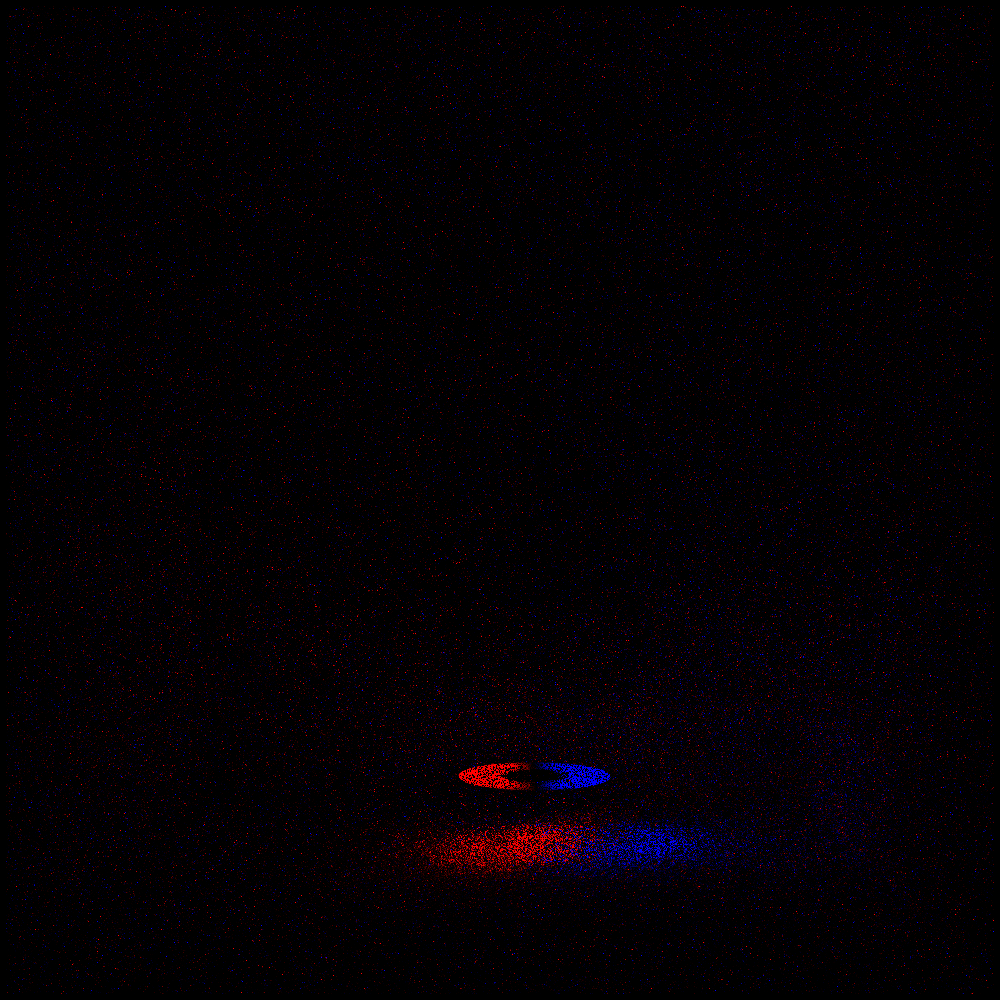
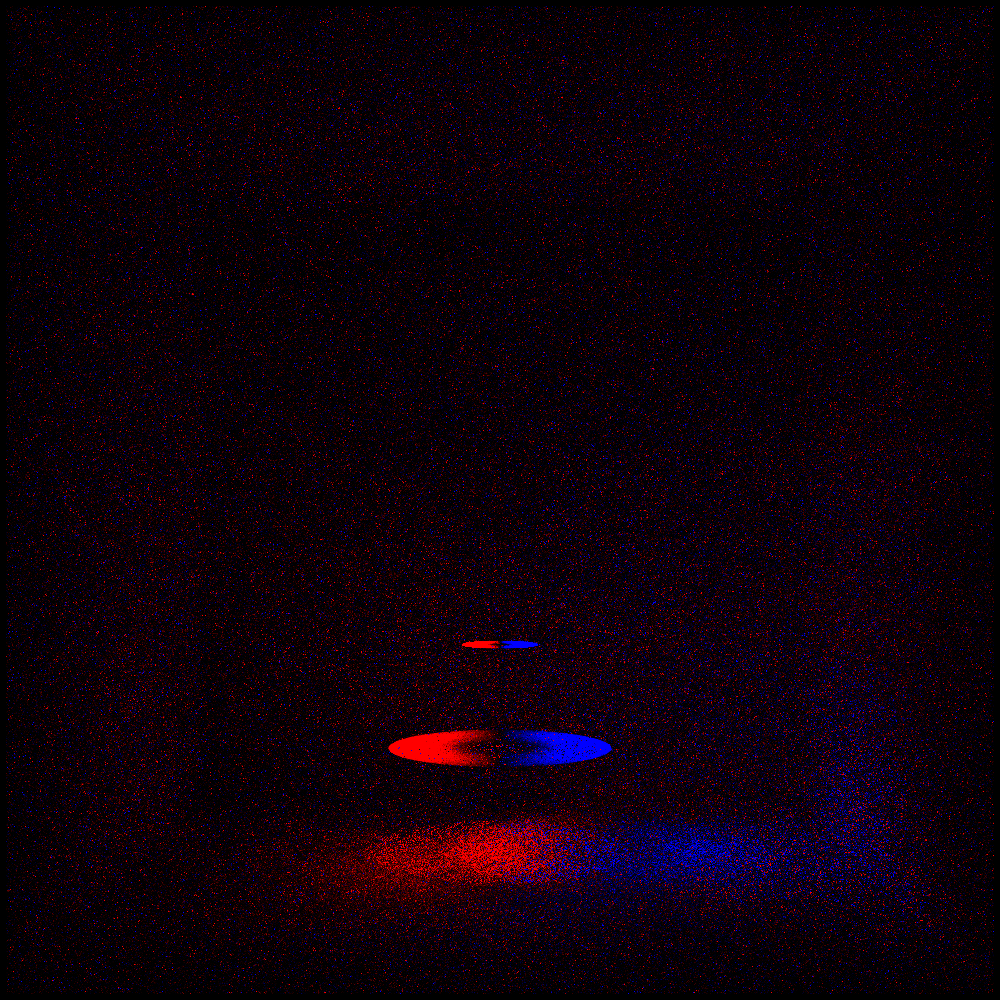
testing shadows and participating media

Changed region(s): [[0.0, 0.0, 0.992, 0.992]]

diff --git a/Pale/Renderer/Kernels/PrimalKernels.cpp b/Pale/Renderer/Kernels/PrimalKernels.cpp
@@ -604,6 +604,13 @@ namespace Pale {
 
                     radianceRGB = radianceRGB * worldHit.transmissivity;
 
+                    // Geometry term?
+                    float distanceToCamera = length(worldHit.hitPositionW - primary.origin);
+                    float surfaceCos = sycl::fmax(0.f, dot(worldHit.geometricNormalW, -primary.direction));
+                    float cameraCos = sycl::fmax(0.f, dot(sensor.camera.forward, primary.direction)); // optional
+                    float geometricToCamera = (surfaceCos * cameraCos) / (distanceToCamera * distanceToCamera);
+                    //radianceRGB = radianceRGB * geometricToCamera;
+
                     // Atomic accumulate
                     const std::uint32_t fbIndex = py * imageWidth + px; // flip Y like your code
                     float4 previous = sensor.framebuffer[fbIndex];

diff --git a/Pale/Renderer/SceneBuild.cpp b/Pale/Renderer/SceneBuild.cpp
@@ -272,8 +272,8 @@ namespace Pale {
 
 
     inline AABB surfelObjectAabb(const Point& surfel,
-                                  float kStdDevs = 2.2f, // Should be similar to the same kSigmas as in intersect surfels
-                                  float sigmaNormal = 0.1f) // set >0 model thickness
+                                  float kStdDevs = 2.8f, // Should be similar to the same kSigmas as in intersect surfels
+                                  float sigmaNormal = 0.0f) // set >0 model thickness
     {
         const float3 tangentU = normalize(surfel.tanU);
         const float3 tangentV = normalize(surfel.tanV);

diff --git a/Pale/Renderer/Kernels/KernelHelpers.h b/Pale/Renderer/Kernels/KernelHelpers.h
@@ -381,7 +381,7 @@ namespace Pale {
                                               float tMin, float tMax,
                                               float &outTHit,
                                               float &outOpacity,
-                                              float kSigmas = 2.2f) {
+                                              float kSigmas = 2.1f) {
         // Should match the same kSigmas as in BVH construction
         // 1) Orthonormal in-plane frame (assumes your rotation already baked into tanU/tanV)
         const float3 unitTangentU = normalize(surfel.tanU);
